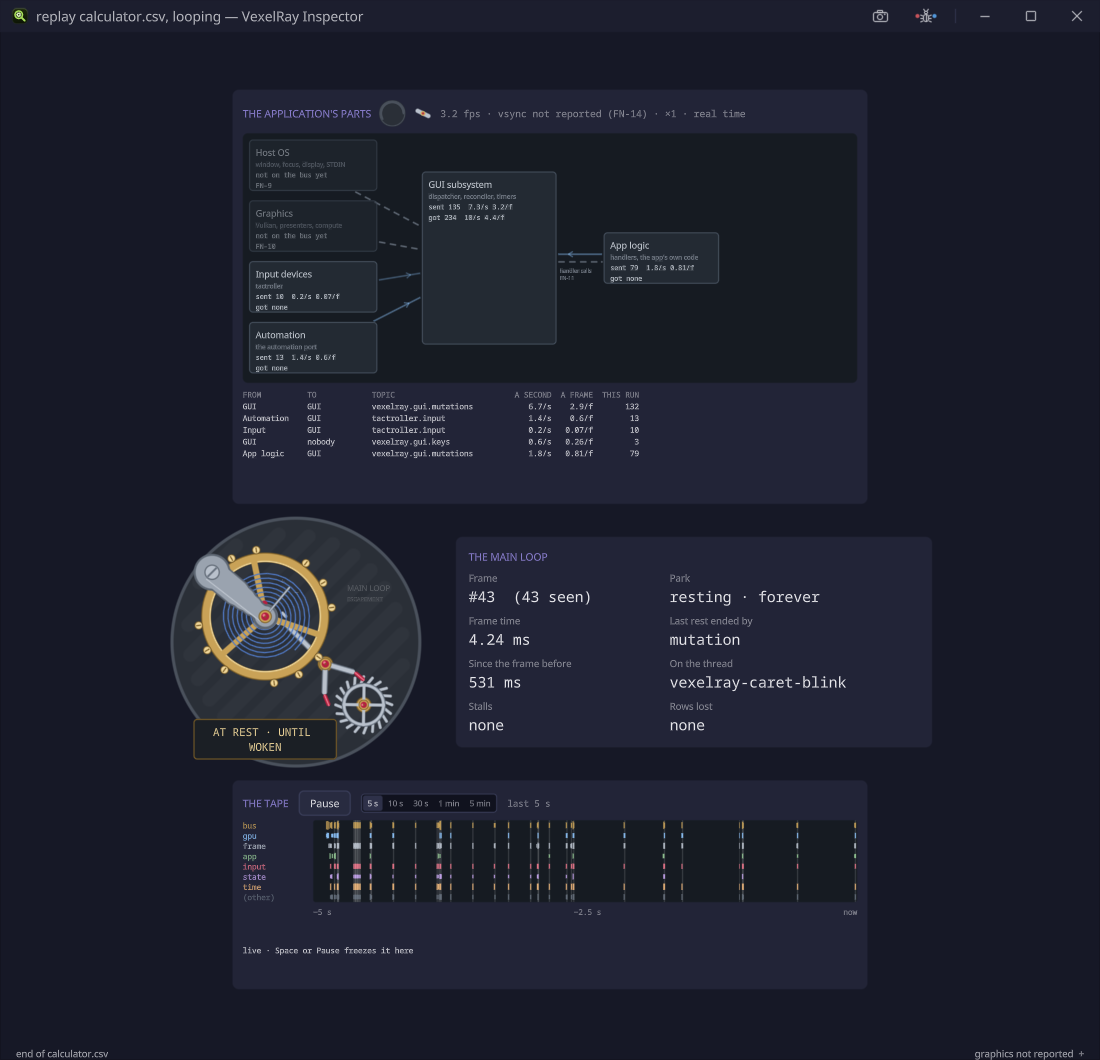
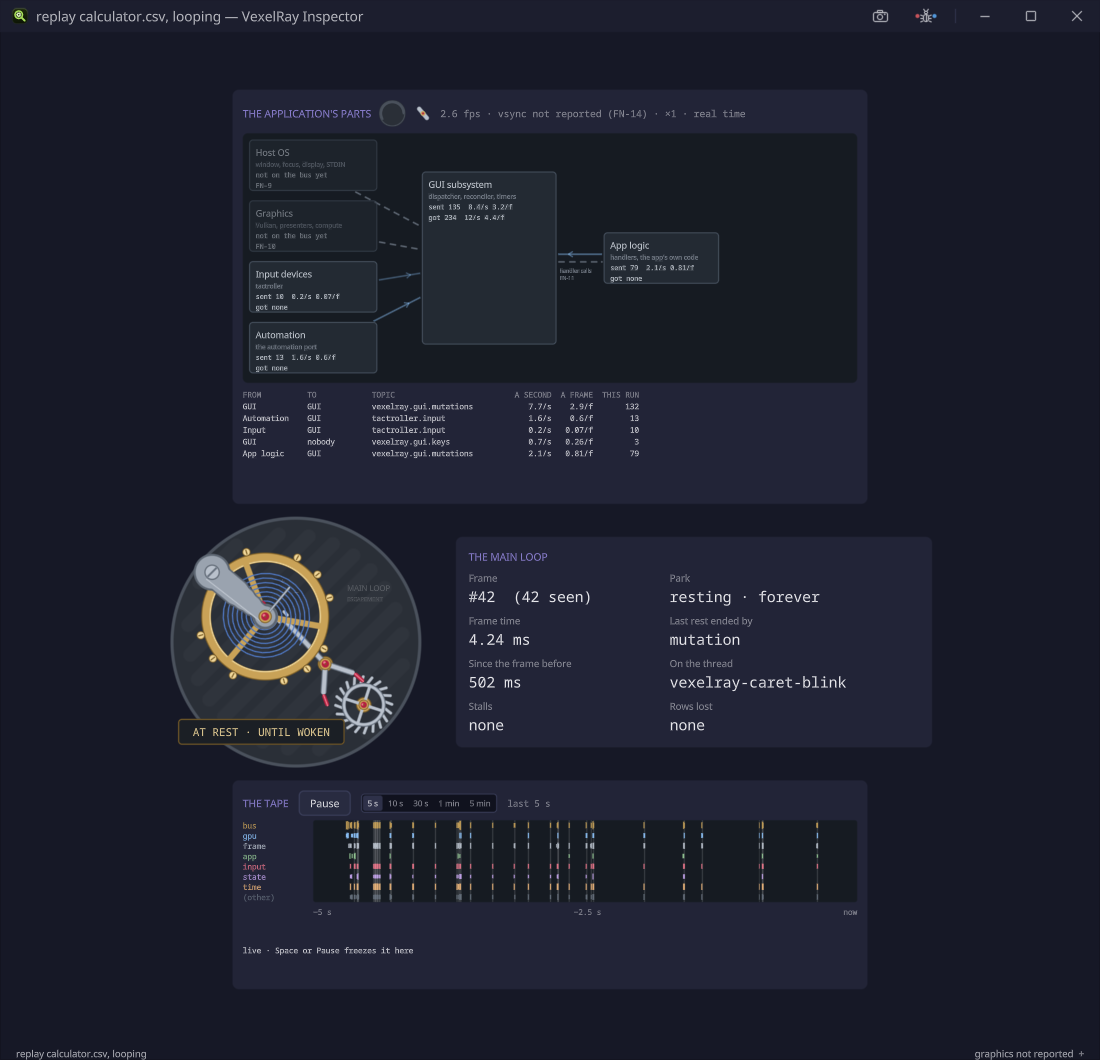
The picker reads the folder only while shown; the plaque on one line
The picker's one-second timer ran for the whole session, so the timeline
was never quiet while anything was inspected: settle and resize always
timed out. It now runs only while the picker is shown, and has a name, so
settle says "picker" when it is the reason. What still keeps it busy is
the show, which is right: a looping replay never stops moving.

The finished-replay entry in TODO was the same timer: its show ramp does
end once the graph's rates have faded, and the picker then comes back,
as it should.

The plaque held about 20 characters, so AT REST · UNTIL WOKEN wrapped;
it holds 24 now, wider and moved left. Screenshots retaken.

diff --git a/src/main/java/dev/sibarum/inspector/Picker.java b/src/main/java/dev/sibarum/inspector/Picker.java
@@ -56,6 +56,8 @@ final class Picker {
     private volatile String filter = "";
     private volatile List<String> shown = null;
     private Scheduled refreshing;
+    private boolean started;
+    private boolean showing = true;
 
     /** One line of the list: an application, or, with no entry, the words for when none is running. */
     private record Line(String key, Discovery.Entry app) {
@@ -103,11 +105,32 @@ final class Picker {
         this.filter = spec == null ? "" : spec;
     }
 
-    /** Start reading the folder every {@link #REFRESH}. Once, from the start recipe, so a headless tree reads no disk. */
-    void start() {
-        if (refreshing == null) {
-            refreshing = krono.every(REFRESH, () -> gui.offload().execute(this::refresh));
+    /**
+     * Start reading the folder every {@link #REFRESH} while the picker is shown. Once, from the start recipe, so a
+     * headless tree reads no disk.
+     */
+    synchronized void start() {
+        started = true;
+        watch();
+    }
+
+    /**
+     * The picker is shown, or hidden behind the movement. Hidden, nothing reads the folder, so the timeline can go
+     * quiet while the target does. Any thread.
+     */
+    synchronized void shown(boolean shown) {
+        this.showing = shown;
+        watch();
+    }
+
+    private void watch() {
+        boolean want = started && showing;
+        if (want && refreshing == null) {
+            refreshing = krono.every("picker", REFRESH, () -> gui.offload().execute(this::refresh));
             gui.offload().execute(this::refresh);
+        } else if (!want && refreshing != null) {
+            refreshing.cancel();
+            refreshing = null;
         }
     }
 

diff --git a/src/main/java/dev/sibarum/inspector/Movement.java b/src/main/java/dev/sibarum/inspector/Movement.java
@@ -88,12 +88,13 @@ final class Movement {
                 .textSize(Length.rem(0.85f))
                 .textColor(ticking)
                 .align(TextLayout.HAlign.CENTER, TextLayout.VAlign.MIDDLE)
-                .width(Length.rem(0.56f * SIDE))
+                // 24 characters on one line: AT REST · UNTIL WOKEN, and a stall's STALL · #12345 · 1.50 s.
+                .width(Length.rem(0.65f * SIDE))
                 .padding(Length.rem(0.35f))
                 .background(Color.rgb(0x1b1f25))
                 .border(Length.dp(1), Parts.PLATE_EDGE)
                 .corner(Length.rem(0.3f))
-                .floatAt(Length.rem(0.10f * SIDE), Length.rem(0.80f * SIDE))
+                .floatAt(Length.rem(0.04f * SIDE), Length.rem(0.80f * SIDE))
                 .hitInert(true);
         gui.landmark(Landmarks.PLAQUE, plaque);
 

diff --git a/src/main/java/dev/sibarum/inspector/Ui.java b/src/main/java/dev/sibarum/inspector/Ui.java
@@ -255,5 +255,6 @@ final class Ui implements Escapement.Listener {
     void picking(boolean picking) {
         inspecting.visible(!picking);
         picker.node().visible(picking);
+        picker.shown(picking);
     }
 }

diff --git a/README.md b/README.md
@@ -47,8 +47,8 @@ the application's Inspector link, or it plays a recording.
 
 ![Paused: the tape frozen, the cursor on a frame.present, and the rows around it](docs/screenshots/tape-paused.png)
 
-*Paused at the end of the same replay (Space), then Ctrl+Left twice and Left once: the cursor is on `#5171`, the
-`frame.present` of frame #43 on `main`, and the panel under the tape gives it and its neighbours, each with its time
+*Paused at the end of the same replay (Space), then Ctrl+Left twice and Left once: the cursor is on the last
+`frame.present`, on `main`, and the panel under the tape gives it and its neighbours, each with its time
 before show time and the frame it fell in or after. The target, a recording here, runs on behind the pause.*
 
 ![The component graph of a made-up application with component lanes](docs/screenshots/component-graph-lanes.png)
@@ -150,7 +150,8 @@ wait. The timeline releases it as the show clock reaches it, to the escapement t
   is what `RowSink` asks for. The end of a run, when the application goes away, comes on that thread too.
 - **A launch** starts the child on `inspector-launch`, which waits for its discovery file, starts the live source and
   ends. `inspector-launch-output` reads the child's output into the log for as long as the child runs.
-- **The picker** reads the discovery folder on the offload lane, asked by a one-second timer on the timeline.
+- **The picker** reads the discovery folder on the offload lane, asked by a one-second timer on the timeline that
+  runs only while the picker is shown, so a quiet target leaves the Inspector quiet.
 - **The show** runs on the timeline, inside the frame, every frame there is something to show: a `KronoGui.ramp` re-armed
   while anything is waiting, moving or behind, and left to end when nothing is, so an idle target leaves the Inspector
   idle. It takes no lock. The message dots are a fixed pool of nodes moved with `translate`, so nothing is allocated per message;
@@ -219,12 +220,13 @@ ottermate --keep-going --script shots.txt --launch mvn.cmd -q compile exec:exec 
 `component-graph-lanes.png` is `resize 1100x1060`, `await readout.frame (2`, `shot`, launched with
 `"-Dapp.args=--replay=samples/circuit-bus.csv --bus.graph=samples/circuit-graph.txt --tape.seconds=5"`.
 
-- **`--keep-going`, because `resize` answers `err`**: it waits for the timeline to go quiet, which the Inspector's
-  timers never let it do (docs/TODO.md), and it has resized the window all the same. `settle` fails the same way, so
-  wait on a landmark.
+- **`--keep-going`, because `resize` answers `err`**: it waits for the timeline to go quiet, and the Inspector is
+  only quiet when nothing it shows is moving. A looping replay never stops, and the window is resized all the same.
+  `settle` waits the same way, so wait on a landmark. The picker reads the discovery folder every second while it is
+  shown, so the picker is never quiet either.
 - **A replay that loops starts its tape afresh**, so a shot of a full tape is taken at the end of the first pass:
-  the calculator's last frame parks `forever`, and nothing earlier in it does. An `await` on a frame number can miss
-  it, because a readout is polled and frames come faster than that.
+  the calculator's last two frames park `forever`, and nothing earlier in it does. An `await` on a frame number can
+  miss it, because a readout is polled and frames come faster than that.
 - **`shot` takes a path the Inspector can open**: relative to the Inspector's working directory, or a Windows one.
   An MSYS path such as `/c/Users/...` is not one.
 

diff --git a/docs/TODO.md b/docs/TODO.md
@@ -16,12 +16,6 @@ Keep an entry short enough that it does not need editing, and delete it when it 
 - [ ] **The frame readout and the history count turns, not frames**: `Escapement` and `Session` count every
       `frame.present`, so `(43 seen)` and the history's frames include turns that drew nothing (FN-14). The graph and
       the tachometer count frames drawn; the two should agree on what a frame is.
-- [ ] **A finished replay never lets the timeline go quiet**: `effect@frames` "reads something varying until
-      forever", so `settle` and `zoom` wait out their timeout once a `--replay.loop=false` run has ended. Already so at
-      069f1aa; found, not chased.
-
-- [ ] **The plaque wraps `AT REST · UNTIL WOKEN`** onto two lines at 1100 px wide (docs/screenshots/component-graph.png);
-      the other plaques fit on one. Found while retaking the screenshots, not chased.
 
 ## The tape (M2)
 
@@ -60,5 +54,3 @@ Keep an entry short enough that it does not need editing, and delete it when it 
 - [ ] **Strings inside the frame**: the show runs on the timeline inside the frame, and the readouts, the parts'
       counts, the flow table and the governor format a string when they change, at most ten times a second. Small and
       bounded, but against the frame-loop rule; digits drawn from a fixed set of glyphs would remove it.
-- [ ] **`settle` never answers on the Inspector**: the picker's one-second discovery timer keeps the timeline busy,
-      so `ottermate settle`, `--size` and `resize` time out (the resize still happens). Scripts wait on landmarks.
